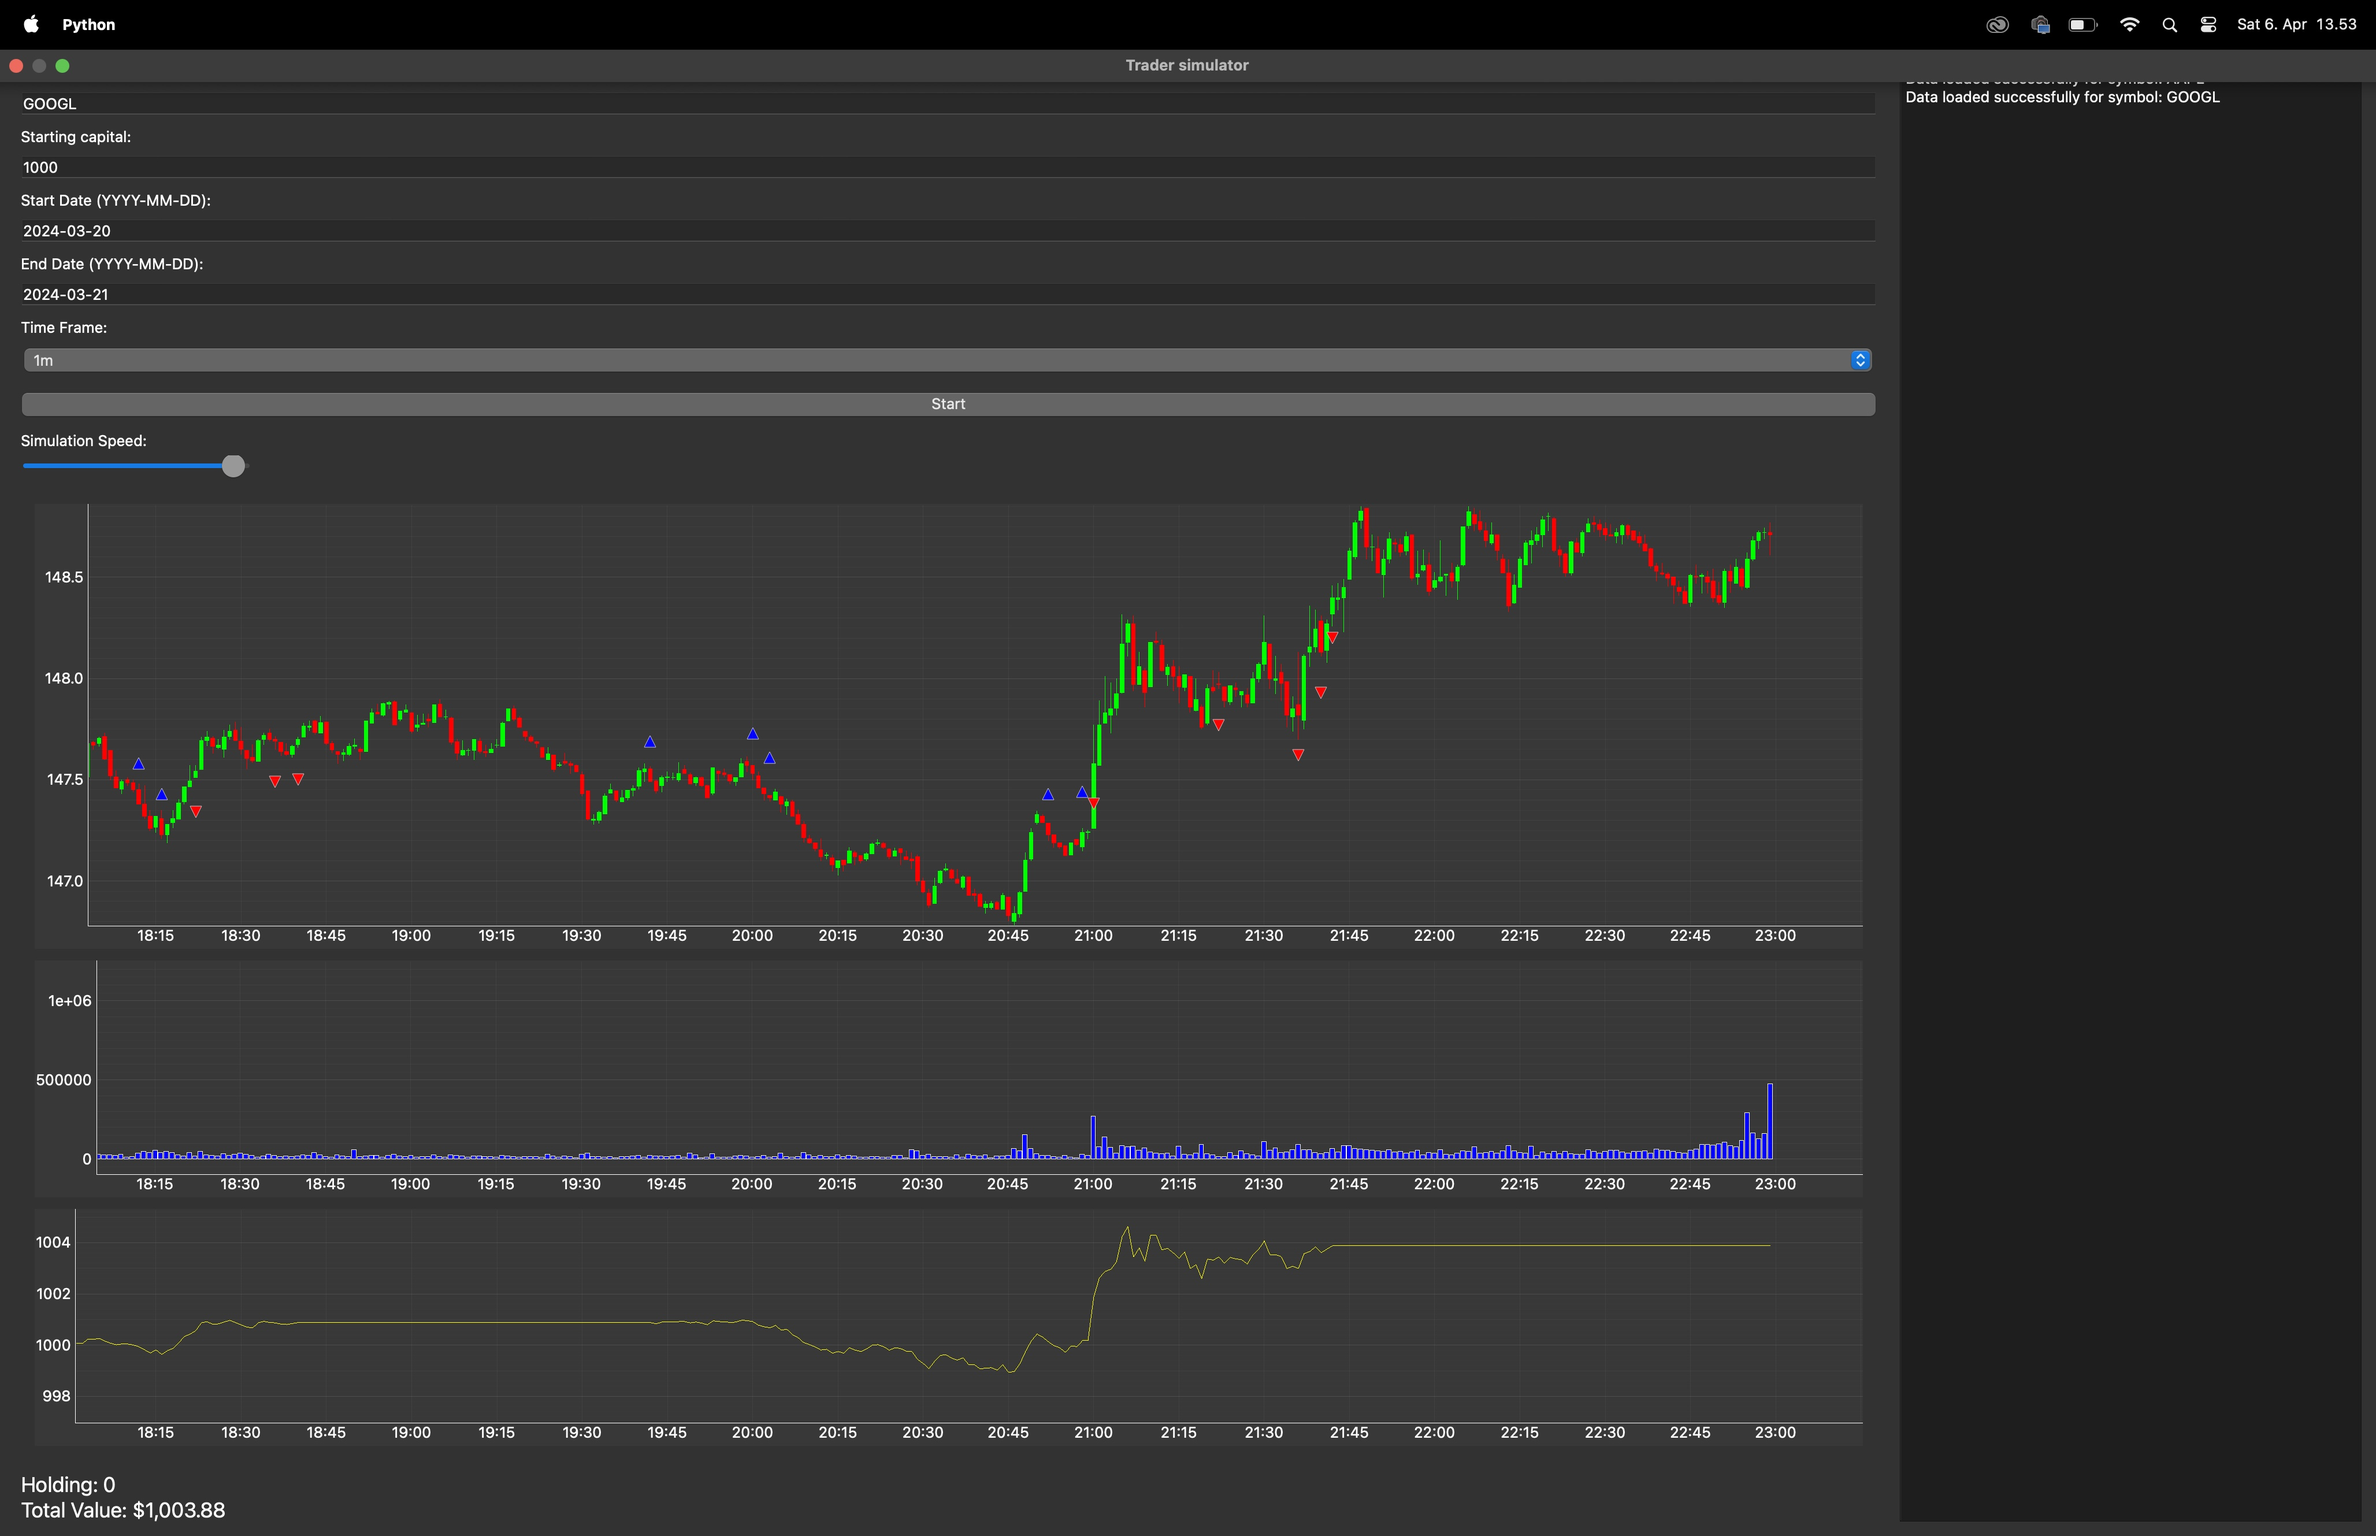
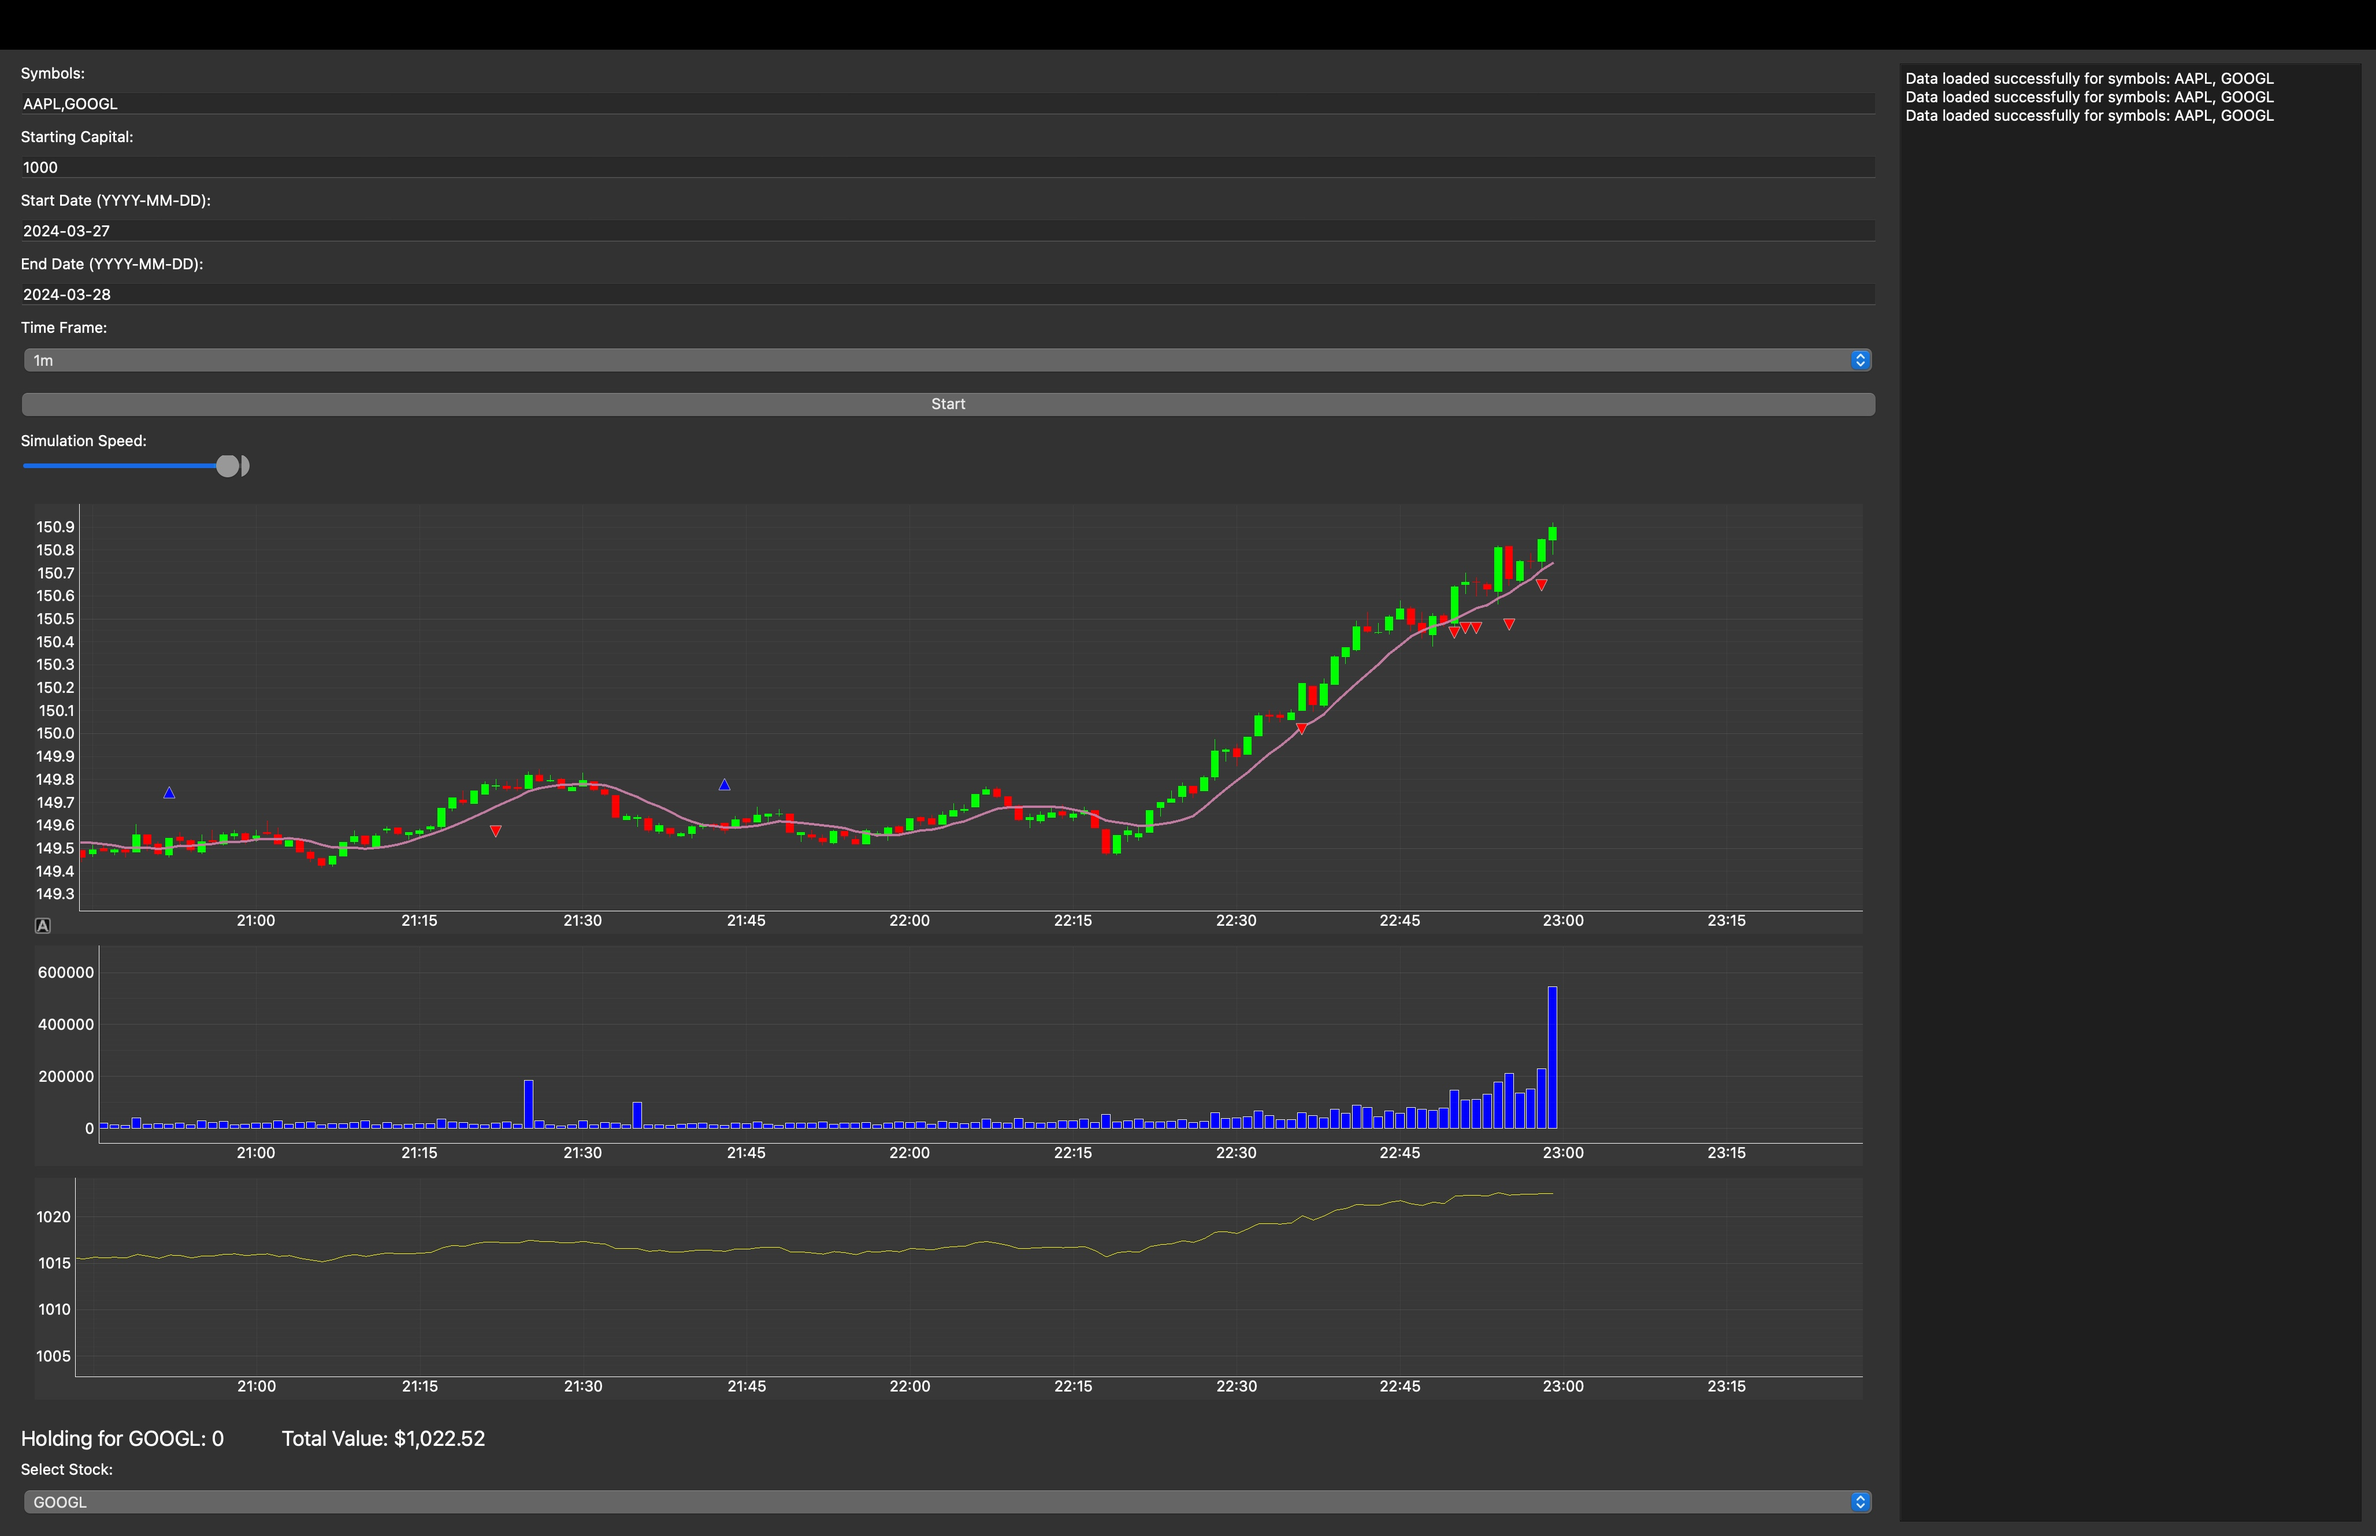
Added multi stock simulation and moving average

diff --git a/src/main.py b/src/main.py
@@ -5,25 +5,21 @@ from data_feeder import DataFeeder
 from trader import Trader
 from plot_canvas import MarketPlotCanvas
 
-
-
 class MainWindow(QMainWindow):
 
     def __init__(self):
         super().__init__()
-        self.setWindowTitle('Trader simulator')
+        self.setWindowTitle('Trader Simulator')
         self.setGeometry(800, 100, 1200, 900)
-
         self.main_widget = QWidget(self)
         self.setCentralWidget(self.main_widget)
         main_layout = QHBoxLayout(self.main_widget)
-
         left_layout = QVBoxLayout()
         main_layout.addLayout(left_layout)
-
         right_layout = QVBoxLayout()
         main_layout.addLayout(right_layout)
-        self.symbol_input = QLineEdit("AAPL", self)
+        
+        self.symbol_input = QLineEdit("AAPL,GOOGL", self)
         self.start_capital = QLineEdit("1000", self)
         self.start_input = QLineEdit("2024-03-20", self)
         self.end_input = QLineEdit("2024-03-21", self)
@@ -32,11 +28,10 @@ class MainWindow(QMainWindow):
         self.load_button = QPushButton('Start', self)
         self.load_button.clicked.connect(self.load_data)
 
-        left_layout.addWidget(QLabel("Symbol:"))
+        left_layout.addWidget(QLabel("Symbols:"))
         left_layout.addWidget(self.symbol_input)
-        left_layout.addWidget(QLabel("Starting capital:"))
+        left_layout.addWidget(QLabel("Starting Capital:"))
         left_layout.addWidget(self.start_capital)
-
         left_layout.addWidget(QLabel("Start Date (YYYY-MM-DD):"))
         left_layout.addWidget(self.start_input)
         left_layout.addWidget(QLabel("End Date (YYYY-MM-DD):"))
@@ -44,9 +39,12 @@ class MainWindow(QMainWindow):
         left_layout.addWidget(QLabel("Time Frame:"))
         left_layout.addWidget(self.time_frame_input)
         left_layout.addWidget(self.load_button)
+        main_layout.setStretch(0, 1)  # Give less space to control panel
+        main_layout.setStretch(1, 5)  # Give more space to graph
+        
 
         self.speed_slider = QSlider(Qt.Horizontal, self)
-        self.speed_slider.setMaximumWidth(200)  
+        self.speed_slider.setMaximumWidth(200)
         self.speed_slider.setMinimum(1)
         self.speed_slider.setMaximum(1000)
         self.speed_slider.setValue(100)
@@ -57,81 +55,86 @@ class MainWindow(QMainWindow):
         left_layout.addWidget(self.market_plot)
 
         self.info_label = QLabel("Holding: \nTotal Value: ", self)
-        font = QFont() 
+        font = QFont()
         font.setPointSize(18)
         self.info_label.setFont(font)
-
         left_layout.addWidget(self.info_label)
+
+        # New stock selection dropdown setup
+        self.stock_selection = QComboBox(self)
+        left_layout.addWidget(QLabel("Select Stock:"))
+        left_layout.addWidget(self.stock_selection)
+        self.stock_selection.currentTextChanged.connect(self.on_stock_selection_changed)
 
         self.text_window = QTextEdit(self)
         self.text_window.setReadOnly(True)
-        self.text_window.setMaximumWidth(400)  
+        self.text_window.setMaximumWidth(400)
         right_layout.addWidget(self.text_window)
-        self.data_feeder = None
-        self.manager = None
+
+        self.data_feeders = {}
+        self.manager = Trader(initial_capital=float(self.start_capital.text()))
 
         self.speed_slider.valueChanged.connect(self.adjust_speed)
         self.timer = QTimer(self)
         self.timer.timeout.connect(self.update_data)
 
-    def load_data(self):
-        try:
-            self.market_plot.reset()
-            symbol = self.symbol_input.text()
-            start_date = self.start_input.text()
-            end_date = self.end_input.text()
-            time_frame = self.time_frame_input.currentText()
-            starting_capital = float(self.start_capital.text())
 
-            self.data_feeder = DataFeeder(symbol, start_date, end_date, time_frame)
-            if self.data_feeder.data.empty:
+    def load_data(self):
+        self.market_plot.reset()
+        symbol = []
+        symbols = self.symbol_input.text().split(",")
+        start_date = self.start_input.text()
+        end_date = self.end_input.text()
+        time_frame = self.time_frame_input.currentText()
+
+        for symbol in symbols:
+            self.manager.addStock(symbol)  # Add stock to Trader
+            self.data_feeders[symbol] = DataFeeder(symbol, start_date, end_date, time_frame)
+            if self.data_feeders[symbol].data.empty:
                 self.text_window.append(f"Error loading data for {symbol}")
                 return
 
-            self.manager = Trader(initial_capital=starting_capital)
-            self.manager.addStock(symbol)
+        self.text_window.append(f"Data loaded successfully for symbols: {', '.join(symbols)}")
+        self.stock_selection.clear()
+        self.stock_selection.addItems(symbols) 
+        if symbols:
+            self.stock_selection.setCurrentIndex(0) 
+        self.start_simulation()
 
 
-            self.text_window.append("Data loaded successfully for symbol: {}".format(symbol))
+    def update_data(self):        
+        for symbol, feeder in self.data_feeders.items():
+            row = feeder.getNextRow()
+            if row is not None:
+                self.manager.distributeData(
+                    stock=symbol, 
+                    Datetime=row.name,
+                    Open=row['Open'],
+                    High=row['High'],
+                    Low=row['Low'],
+                    Close=row['Close'],  
+                    Volume=row['Volume'],
+                )
+            # else:
+                # self.manager.saveActions()
 
-            self.start_simulation()
-            
-        except Exception as e:
-            print("Error loading data: {}".format(str(e)))
-
-
-    def update_data(self):
-        try:
-            df = self.traderCycle()
-            if df is not False:
-                self.market_plot.plot(df)
-                total_value = self.manager.calculateTotalValue()
-                holding = self.manager.getHolding(self.symbol_input.text())
-                self.info_label.setText(f"Holding: {holding}\nTotal Value: ${total_value:,.2f}")
-        except Exception as e:
-            print("Error updating data: {}".format(str(e)))
-
+        self.update_gui_for_stock(self.stock_selection.currentText())
 
 
-    def traderCycle(self):
-        row = self.data_feeder.getNextRow()
-        if row is not None:
-            self.manager.distributeData(
-                stock=self.symbol_input.text(), 
-                Datetime=row.name,
-                Open=row['Open'],
-                High=row['High'],
-                Low=row['Low'],
-                Close=row['Close'],  
-                Volume=row['Volume'],  
-            )
-        else:
-            self.manager.saveActions()
-            return False
-        
-        dataF = self.manager.getLiveDataFrame().getFrame()
-        return dataF
-    
+    def update_gui_for_stock(self, symbol):
+        if symbol in self.data_feeders: 
+            total_value = self.manager.calculateTotalValue()
+            holding = self.manager.getHolding(symbol) 
+            self.info_label.setText(f"Holding for {symbol}: {holding}           Total Value: ${total_value:,.2f}")
+            df = self.manager.getLiveDataFrame(symbol)
+        if df.shape[0] >= 2:
+                self.market_plot.plot(df, mav=9)
+
+    def on_stock_selection_changed(self):
+        selected_symbol = self.stock_selection.currentText()
+        if selected_symbol in self.data_feeders:
+            self.update_gui_for_stock(selected_symbol)
+       
 
     def start_simulation(self):
         self.timer.setInterval(self.speed_slider.value())

diff --git a/src/plot_canvas.py b/src/plot_canvas.py
@@ -41,17 +41,23 @@ class MarketPlotCanvas(QWidget):
         self.mainLayout.addWidget(plot_widget)
         return plot_widget
 
-    def plot(self, df):
+    def plot(self, df, **kwargs):
         self.reset()
 
         time = pd.to_datetime(df.index).astype(np.int64) // 10**9
-        
+
         candlestickData = []
         
         for t, row in zip(time, df.itertuples()):
             candlestickData.append((t, row.Open, row.Close, row.Low, row.High))
         candlestickItem = CandlestickItem(candlestickData)
         self.plotWidget.addItem(candlestickItem)
+
+        if "mav" in kwargs:
+            mav_period = kwargs["mav"]
+            df['MAV'] = df['Close'].rolling(window=mav_period).mean()
+            self.plotWidget.plot(time, df['MAV'].values, pen=pg.mkPen('#C27BA0', width=4), name="MAV")
+
         
         volumeBars = pg.BarGraphItem(x=time, height=df['Volume'].values, width=0.8 * (time[1] - time[0]), brush='b')
         self.volumePlotWidget.addItem(volumeBars)
@@ -62,15 +68,7 @@ class MarketPlotCanvas(QWidget):
             signalPrices = signals['Close'].values
             offset = np.ones_like(signalPrices) * (0.2 if signal == 1 else -0.2)
             self.plotWidget.plot(signalTime, signalPrices + offset, pen=None, symbol=symbol, symbolSize=10, symbolBrush=color)
-
-        
-
         self.capitalPlotWidget.plot(time, df['Capital'].astype(np.float64).values, pen='y')
-
-
-
-
-
 
     def reset(self):
         self.plotWidget.clear()

diff --git a/src/trader.py b/src/trader.py
@@ -20,8 +20,8 @@ class Trader:
             trade_frames[stock] = trader.getTradeFrame().getFrame()
         return trade_frames
     
-    def getLiveDataFrame(self):
-        return list(self.threads.values())[0].getTradeFrame()
+    def getLiveDataFrame(self, symbol:str):
+        return self.threads[symbol].getTradeFrame().getFrame()
     
     def saveActions(self):
         for trader in self.threads.values():
@@ -42,6 +42,7 @@ class Trader:
 
             signal = self.threads[stock].getSignal() # Signal from algo
             action = self.actOnSignal(stock, signal) # Action by bot
+
             self.threads[stock].updateFrame(
                 datetime, 
                 Signal = action,

diff --git a/src/frame.py b/src/frame.py
@@ -3,7 +3,7 @@ import pandas as pd
 class TradeFrame:
     
     def __init__(self):
-        self.columns = ['Open', 'High', 'Low', 'Close', 'Volume', 'Signal', 'Capital', 'Holding']
+        self.columns = ['Open', 'High', 'Low', 'Close', 'Volume', 'Signal', 'Action', 'Capital', 'Holding']
         self.frame = pd.DataFrame(columns=self.columns)
         self.frame.index.name = 'Datetime'
 

diff --git a/src/strategy.py b/src/strategy.py
@@ -6,10 +6,7 @@ import pandas as pd
 def applyFourierTransform(df):
     """
     Apply Fourier Transform to the closing prices to identify dominant frequencies.
-    """
-
-    df = df # Copy df
-    
+    """    
     if len(df) < 20:
         return 0
     

diff --git a/README.md b/README.md
@@ -21,6 +21,6 @@ Python-based application that simulates stock trading. It uses historical data t
 
 ## TODO
 
-[ ] Fetch real time data
-[ ] Connect dataframe to database
-[ ] Varied timeframe trades on multiple stocks
+[] Fetch real time data
+[] Connect dataframe to database
+[] Varied timeframe trades on multiple stocks
